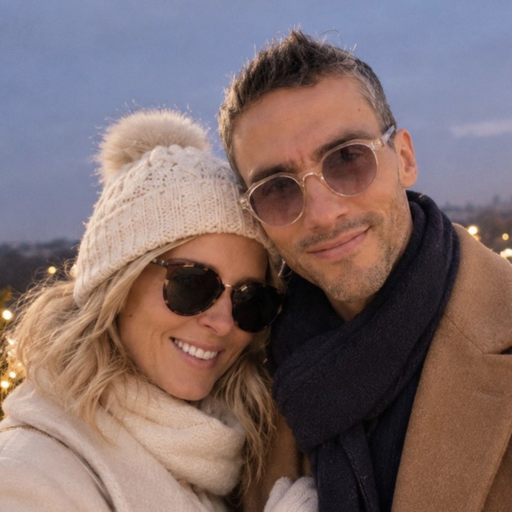
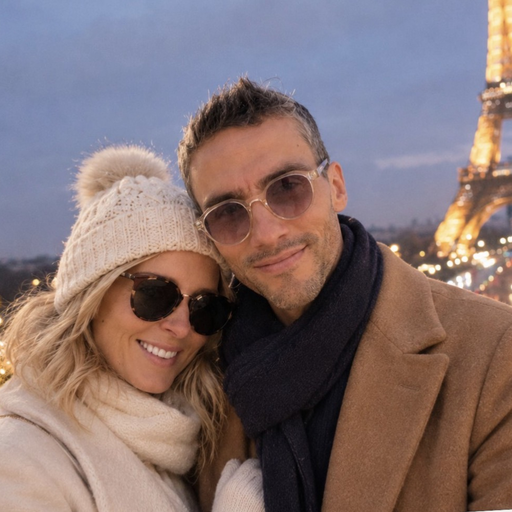
Site v32 et nouvelle icône (photo avec la tour Eiffel, recadrage minimal)
Claude-Session: https://claude.ai/code/session_01MQ8BgChGjTmsqUuMwo4w4S

diff --git a/sw.js b/sw.js
@@ -1,5 +1,5 @@
 // Service worker du carnet de Paris : tout est gardé sur l'appareil pour fonctionner sans réseau (métro).
-const CACHE = "carnet-e8d0970b73";
+const CACHE = "carnet-dad69f02e7";
 const COQUILLE = ["./", "index.html", "manifest.webmanifest", "fonts/fonts.css", "fonts/92zatBhPNqw73oTd4jQmfxI.woff2", "fonts/92zatBhPNqw73ord4jQmfxIC7w.woff2", "fonts/aFTB7PxzY382XsXX63LUYJSPUqb0qojSAq1rZLktbNxSXgOXEFZ8.woff2", "fonts/aFTB7PxzY382XsXX63LUYJSPUqb0qojSAq1rZLktbNxcXgOXEFZ8mYc.woff2", "fonts/aFTQ7PxzY382XsXX63LUYJSESKjWXFBPgas.woff2", "fonts/aFTQ7PxzY382XsXX63LUYJSKSKjWXFBP.woff2", "icons/apple-touch-icon.png", "icons/icon-192.png", "icons/icon-512-maskable.png", "icons/icon-512.png"];
 const MEDIAS = ["carte/paris.jpg", "img/accueil-galeries-lafayette.jpg", "img/accueil-patinage.jpg", "img/accueil-tour-eiffel.jpg", "img/ang_0.jpg", "img/b1_0.jpg", "img/b1_1.jpg", "img/b1_2.jpg", "img/b1_3.jpg", "img/b2_0.jpg", "img/b2_1.jpg", "img/b2_2.jpg", "img/b2_3.jpg", "img/b3_0.jpg", "img/b3_1.jpg", "img/b3_2.jpg", "img/b3_3.jpg", "img/b4_0.jpg", "img/b5_0.jpg", "img/b5_1.jpg", "img/bhv_0.jpg", "img/bhv_1.jpg", "img/bhv_2.jpg", "img/bhv_3.jpg", "img/bm1_0.jpg", "img/c1_0.jpg", "img/deb_0.jpg", "img/deb_1.jpg", "img/deb_2.jpg", "img/deb_3.jpg", "img/deh_0.jpg", "img/dey_0.jpg", "img/f1_0.jpg", "img/fee_0.jpg", "img/fee_1.jpg", "img/fond-seine-noel.jpg", "img/gde_0.jpg", "img/jdp_0.jpg", "img/l10_0.jpg", "img/l11_0.jpg", "img/l11_1.jpg", "img/l11_2.jpg", "img/l11_3.jpg", "img/l12_0.jpg", "img/l12_1.jpg", "img/l12_2.jpg", "img/l12_3.jpg", "img/l12_perso.jpg", "img/l13_0.jpg", "img/l13_perso2.jpg", "img/l13b_c2.jpg", "img/l13b_c5.jpg", "img/l13b_perso.jpg", "img/l14_c1.jpg", "img/l14_c3.jpg", "img/l15_0.jpg", "img/l15_1.jpg", "img/l15_2.jpg", "img/l16_0.jpg", "img/l16_1.jpg", "img/l16_2.jpg", "img/l16_3.jpg", "img/l17_0.jpg", "img/l17_1.jpg", "img/l17_2.jpg", "img/l17_3.jpg", "img/l18_0.jpg", "img/l18_1.jpg", "img/l19_c1.jpg", "img/l19_c2.jpg", "img/l19_c4.jpg", "img/l20_0.jpg", "img/l20_perso.jpg", "img/l21_c1.jpg", "img/l21_c2.jpg", "img/l26_0.jpg", "img/l26_perso.jpg", "img/l28a_0.jpg", "img/l28a_1.jpg", "img/l28a_2.jpg", "img/l28a_3.jpg", "img/l28b_0.jpg", "img/l28b_1.jpg", "img/l28b_2.jpg", "img/l28b_3.jpg", "img/l28c_0.jpg", "img/l28c_1.jpg", "img/l28c_2.jpg", "img/l28c_3.jpg", "img/l28d_0.jpg", "img/l28d_1.jpg", "img/l28d_2.jpg", "img/l28d_3.jpg", "img/l28e_0.jpg", "img/l28e_1.jpg", "img/l28e_2.jpg", "img/l28e_3.jpg", "img/l28f_0.jpg", "img/l28f_1.jpg", "img/l28f_2.jpg", "img/l28f_3.jpg", "img/l28f_perso.jpg", "img/l28h_0.jpg", "img/l28h_1.jpg", "img/l28h_2.jpg", "img/l28i_0.jpg", "img/l28i_1.jpg", "img/l28i_2.jpg", "img/l28j_0.jpg", "img/l28j_1.jpg", "img/l28j_2.jpg", "img/l2_0.jpg", "img/l2_1.jpg", "img/l2_2.jpg", "img/l2_perso.jpg", "img/l3_0.jpg", "img/l3_1.jpg", "img/l4_0.jpg", "img/l5_0.jpg", "img/l6_0.jpg", "img/l8_0.jpg", "img/l8_1.jpg", "img/l8_2.jpg", "img/l8_3.jpg", "img/l9_0.jpg", "img/l9_1.jpg", "img/l9_2.jpg", "img/l9_3.jpg", "img/ls1_0.jpg", "img/ls2_0.jpg", "img/ls2_1.jpg", "img/ls2_2.jpg", "img/ls2_3.jpg", "img/ls3_0.jpg", "img/ls3_1.jpg", "img/ls3_2.jpg", "img/ls3_3.jpg", "img/ls4_0.jpg", "img/ls4_1.jpg", "img/ls4_2.jpg", "img/ls4_3.jpg", "img/ls5_0.jpg", "img/ls5_1.jpg", "img/ls5_2.jpg", "img/ls5_3.jpg", "img/ls6_0.jpg", "img/ls6_1.jpg", "img/ls6_2.jpg", "img/ls6_3.jpg", "img/ls7_0.jpg", "img/ls7_1.jpg", "img/lv1_0.jpg", "img/lv1_1.jpg", "img/lv1_2.jpg", "img/lv1_3.jpg", "img/m10_0.jpg", "img/m11_0.jpg", "img/m11_1.jpg", "img/m11_2.jpg", "img/m12_0.jpg", "img/m12_1.jpg", "img/m12_2.jpg", "img/m12_3.jpg", "img/m13_0.jpg", "img/m13_1.jpg", "img/m13_2.jpg", "img/m13_3.jpg", "img/m14_0.jpg", "img/m14_1.jpg", "img/m14_2.jpg", "img/m1_0.jpg", "img/m2_c2.jpg", "img/m2_c3.jpg", "img/m3_0.jpg", "img/m3_1.jpg", "img/m3_2.jpg", "img/m3_3.jpg", "img/m5_0.jpg", "img/m5_1.jpg", "img/m5_2.jpg", "img/m5_3.jpg", "img/m7_0.jpg", "img/m7_1.jpg", "img/m7_2.jpg", "img/m7_3.jpg", "img/m8_0.jpg", "img/m8_1.jpg", "img/m8_2.jpg", "img/m8_3.jpg", "img/m9_0.jpg", "img/mere_0.jpg", "img/mere_1.jpg", "img/mere_2.jpg", "img/ndm_perso.jpg", "img/o1_0.jpg", "img/o1_1.jpg", "img/p1_0.jpg", "img/p1_perso.jpg", "img/p2_0.jpg", "img/p2_1.jpg", "img/p2_2.jpg", "img/p2_3.jpg", "img/p2_perso.jpg", "img/p4_0.jpg", "img/prin_0.jpg", "img/prin_1.jpg", "img/prin_2.jpg", "img/prin_3.jpg", "img/sama_0.jpg", "img/sama_1.jpg", "img/sama_2.jpg", "img/sama_3.jpg", "img/se1_0.jpg", "img/se1_1.jpg", "img/se1_2.jpg", "img/se1_3.jpg", "img/se2_0.jpg", "img/se2_1.jpg", "img/se2_2.jpg", "img/se2_3.jpg", "img/se5_0.jpg", "img/se5_1.jpg", "img/se5_2.jpg", "img/se5_3.jpg", "img/se6_0.jpg", "img/se6_1.jpg", "img/se6_2.jpg", "img/se6_3.jpg", "img/se7_0.jpg", "img/se7_1.jpg", "img/shak_0.jpg", "img/shak_1.jpg", "img/shak_2.jpg", "img/u1_0.jpg", "img/v1_0.jpg", "img/v1_1.jpg", "img/v1_2.jpg", "img/v1_3.jpg", "img/viv_0.jpg", "img/viv_1.jpg", "img/viv_2.jpg", "img/viv_3.jpg", "plans/ang.jpg", "plans/b1.jpg", "plans/b2.jpg", "plans/b3.jpg", "plans/b4.jpg", "plans/b5.jpg", "plans/bhv.jpg", "plans/bm1.jpg", "plans/c1.jpg", "plans/ca1.jpg", "plans/deb.jpg", "plans/deh.jpg", "plans/dey.jpg", "plans/f1.jpg", "plans/fee.jpg", "plans/gep.jpg", "plans/jdp.jpg", "plans/l10.jpg", "plans/l11.jpg", "plans/l12.jpg", "plans/l13.jpg", "plans/l13b.jpg", "plans/l15.jpg", "plans/l16.jpg", "plans/l17.jpg", "plans/l18.jpg", "plans/l19.jpg", "plans/l2.jpg", "plans/l20.jpg", "plans/l21.jpg", "plans/l23.jpg", "plans/l24.jpg", "plans/l26.jpg", "plans/l28a.jpg", "plans/l28b.jpg", "plans/l28c.jpg", "plans/l28d.jpg", "plans/l28e.jpg", "plans/l28f.jpg", "plans/l28h.jpg", "plans/l28i.jpg", "plans/l28j.jpg", "plans/l3.jpg", "plans/l4.jpg", "plans/l5.jpg", "plans/l6.jpg", "plans/l7.jpg", "plans/l8.jpg", "plans/l9.jpg", "plans/lv1.jpg", "plans/m1.jpg", "plans/m10.jpg", "plans/m11.jpg", "plans/m12.jpg", "plans/m14.jpg", "plans/m2.jpg", "plans/m3.jpg", "plans/m5.jpg", "plans/m6.jpg", "plans/m7.jpg", "plans/m8.jpg", "plans/m9.jpg", "plans/mere.jpg", "plans/ndm.jpg", "plans/nina.jpg", "plans/o1.jpg", "plans/p1.jpg", "plans/p2.jpg", "plans/p4.jpg", "plans/prin.jpg", "plans/sama.jpg", "plans/se1.jpg", "plans/se2.jpg", "plans/se3.jpg", "plans/se6.jpg", "plans/se7.jpg", "plans/shak.jpg", "plans/u1.jpg", "plans/v1.jpg", "plans/viv.jpg"];
 

diff --git a/index.html b/index.html
@@ -894,7 +894,8 @@ footer { background: rgba(8, 13, 20, .92); }
 <script>
 /* Garde-fou : si un script échoue dans l'affichage, le message s'affiche en bas de page au lieu d'une page vide. */
 window.addEventListener("error", function (e) {
-  if (!(e instanceof ErrorEvent)) return; if (!e.lineno && !e.filename) return; // une image qui ne charge pas n'est pas une panne
+  if (!(e instanceof ErrorEvent)) return; // une image qui ne charge pas n'est pas une panne
+  if (!e.lineno && !e.filename) return; // « Script error. » sans source : extension du navigateur, pas le site
   var b = document.getElementById("erreur-js");
   if (!b) { b = document.createElement("div"); b.id = "erreur-js"; b.setAttribute("role", "alert");
     b.style.cssText = "position:fixed;left:12px;right:12px;bottom:12px;z-index:99;background:#8c3b2f;color:#fff;padding:10px 14px;border-radius:6px;font:14px/1.4 system-ui,sans-serif";
